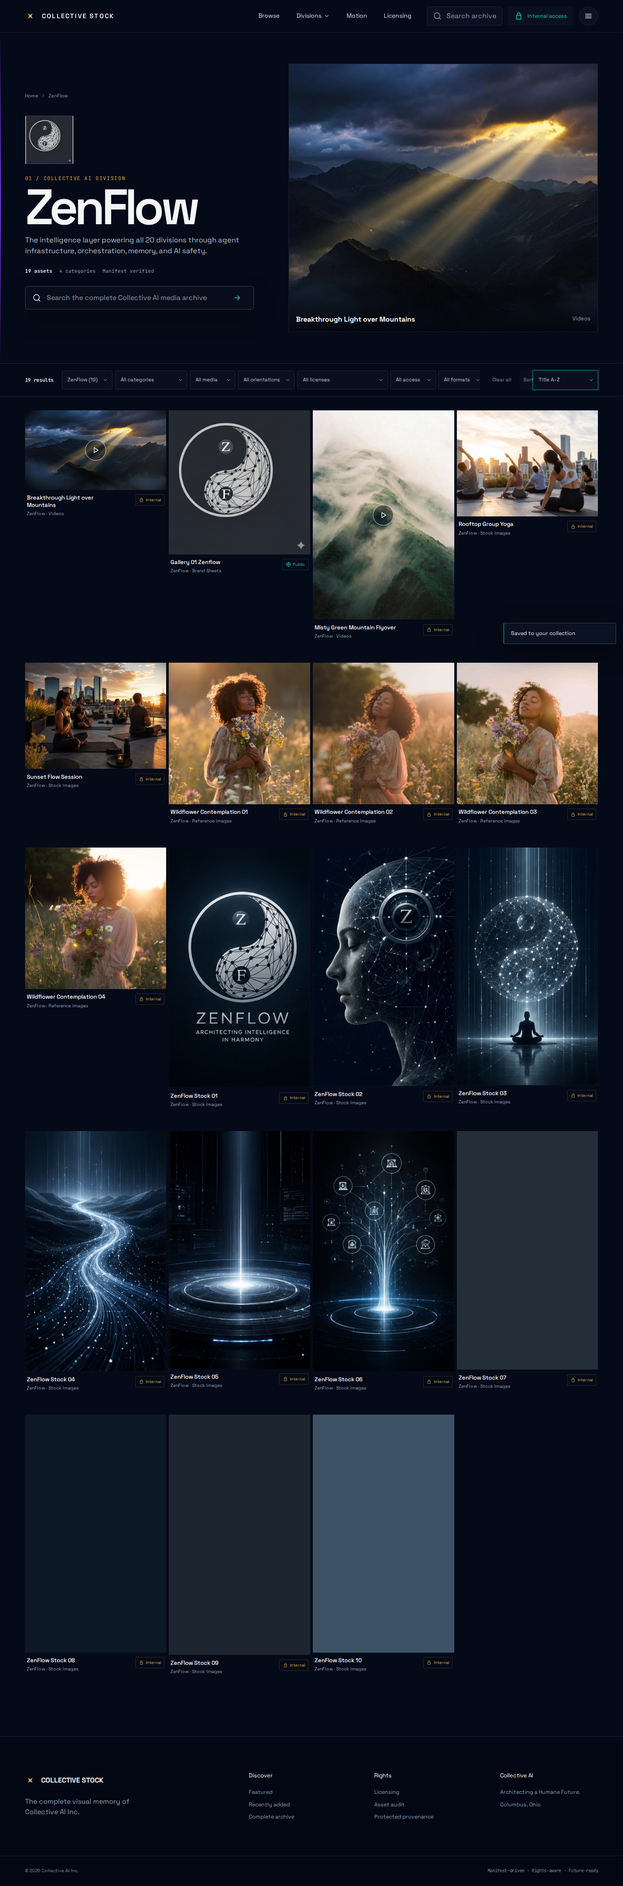
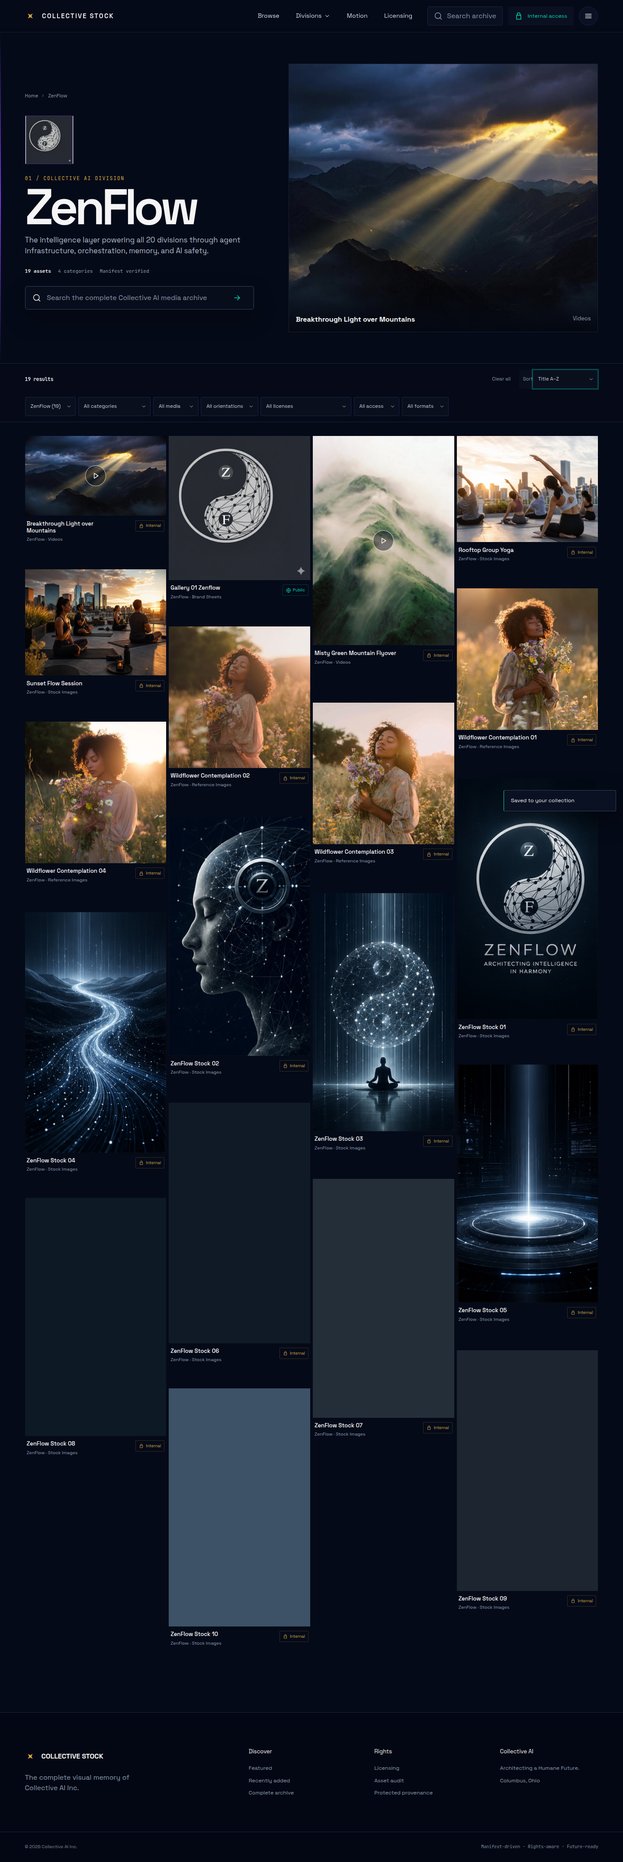
Pack media grids as masonry and fix layout defects across the app
Measured against the built site, the ratio-preserving grids were leaving
large holes and the facet rail was hiding controls. Each fix below was
verified in a real browser at 390/768/1024/1280/1440px.

Masonry packing (src/media/masonry-grid.js)
  A single tall portrait asset forced every short landscape asset sharing
  its row to reserve the same height, so the archive grid was mostly dead
  space. A controller now measures each item and assigns a row span,
  packing the columns tightly. The complete-archive page went from 48551px
  to 42440px tall with no loss of content. Row tracks apply only after the
  controller runs, so the plain grid remains the no-JS fallback, and the
  observer reacts to width alone because assigning spans is itself what
  changes the height.

Facet rail
  `.filter-controls` scrolled horizontally with its scrollbar hidden, so
  the last two facets ("All access", "All formats") were unreachable and
  collided with "Clear all". It now wraps, and gets a full-width row
  between 1281px and 1700px. Measured overflow at 1440px: 180px -> 0.

Motion showcase
  The rail hard-coded six columns for four videos, leaving a third of the
  row empty. Columns now follow the tile count, capped at six.

In-page anchors
  `#licensing` landed under the sticky header. Sections carry
  `scroll-margin-top`, and because the home bands use
  `content-visibility: auto` the fragment scroll is re-verified as the
[…]

diff --git a/src/styles/generated.css b/src/styles/generated.css
@@ -1,1 +1,1 @@
-*,:after,:before{--tw-border-spacing-x:0;--tw-border-spacing-y:0;--tw-translate-x:0;--tw-translate-y:0;--tw-rotate:0;--tw-skew-x:0;--tw-skew-y:0;--tw-scale-x:1;--tw-scale-y:1;--tw-pan-x: ;--tw-pan-y: ;--tw-pinch-zoom: ;--tw-scroll-snap-strictness:proximity;--tw-gradient-from-position: ;--tw-gradient-via-position: ;--tw-gradient-to-position: ;--tw-ordinal: ;--tw-slashed-zero: ;--tw-numeric-figure: ;--tw-numeric-spacing: ;--tw-numeric-fraction: ;--tw-ring-inset: ;--tw-ring-offset-width:0px;--tw-ring-offset-color:#fff;--tw-ring-color:rgba(59,130,246,.5);--tw-ring-offset-shadow:0 0 #0000;--tw-ring-shadow:0 0 #0000;--tw-shadow:0 0 #0000;--tw-shadow-colored:0 0 #0000;--tw-blur: ;--tw-brightness: ;--tw-contrast: ;--tw-grayscale: ;--tw-hue-rotate: ;--tw-invert: ;--tw-saturate: ;--tw-sepia: ;--tw-drop-shadow: ;--tw-backdrop-blur: ;--tw-backdrop-brightness: ;--tw-backdrop-contrast: ;--tw-backdrop-grayscale: ;--tw-backdrop-hue-rotate: ;--tw-backdrop-invert: ;--tw-backdrop-opacity: ;--tw-backdrop-saturate: ;--tw-backdrop-sepia: ;--tw-contain-size: ;--tw-contain-layout: ;--tw-contain-paint: ;--tw-contain-style: }::backdrop{--tw-border-spacing-x:0;--tw-border-spacing-y:0;--tw-translate-x:0;--tw-translate-y:0;--tw-rotate:0;--tw-skew-x:0;--tw-skew-y:0;--tw-scale-x:1;--tw-scale-y:1;--tw-pan-x: ;--tw-pan-y: ;--tw-pinch-zoom: ;--tw-scroll-snap-strictness:proximity;--tw-gradient-from-position: ;--tw-gradient-via-position: ;--tw-gradient-to-position: ;--tw-ordinal: ;--tw-slashed-zero: ;--tw-numeric-figure: ;--tw-numeric-spacing: ;--tw-numeric-fraction: ;--tw-ring-inset: ;--tw-ring-offset-width:0px;--tw-ring-offset-color:#fff;--tw-ring-color:rgba(59,130,246,.5);--tw-ring-offset-shadow:0 0 #0000;--tw-ring-shadow:0 0 #0000;--tw-shadow:0 0 #0000;--tw-shadow-colored:0 0 #0000;--tw-blur: ;--tw-brightness: ;--tw-contrast: ;--tw-grayscale: ;--tw-hue-rotate: ;--tw-invert: ;--tw-saturate: ;--tw-sepia: ;--tw-drop-shadow: ;--tw-backdrop-blur: ;--tw-backdrop-brightness: ;--tw-backdrop-contrast: ;--tw-backdrop-grayscale: ;--tw-backdrop-hue-rotate: ;--tw-backdrop-invert: ;--tw-backdrop-opacity: ;--tw-backdrop-saturate: ;--tw-backdrop-sepia: ;--tw-contain-size: ;--tw-contain-layout: ;--tw-contain-paint: ;--tw-contain-style: }/*! tailwindcss v3.4.19 | MIT License | https://tailwindcss.com*/*,:after,:before{box-sizing:border-box;border:0 solid #e5e7eb}:after,:before{--tw-content:""}:host,html{line-height:1.5;-webkit-text-size-adjust:100%;-moz-tab-size:4;-o-tab-size:4;tab-size:4;font-family:ui-sans-serif,system-ui,sans-serif,Apple Color Emoji,Segoe UI Emoji,Segoe UI Symbol,Noto Color Emoji;font-feature-settings:normal;font-variation-settings:normal;-webkit-tap-highlight-color:transparent}body{margin:0;line-height:inherit}hr{height:0;color:inherit;border-top-width:1px}abbr:where([title]){-webkit-text-decoration:underline dotted;text-decoration:underline dotted}h1,h2,h3,h4,h5,h6{font-size:inherit;font-weight:inherit}a{color:inherit;text-decoration:inherit}b,strong{font-weight:bolder}code,kbd,pre,samp{font-family:JetBrains Mono,ui-monospace,SFMono-Regular,monospace;font-feature-settings:normal;font-variation-settings:normal;font-size:1em}small{font-size:80%}sub,sup{font-size:75%;line-height:0;position:relative;vertical-align:baseline}sub{bottom:-.25em}sup{top:-.5em}table{text-indent:0;border-color:inherit;border-collapse:collapse}button,input,optgroup,select,textarea{font-family:inherit;font-feature-settings:inherit;font-variation-settings:inherit;font-size:100%;font-weight:inherit;line-height:inherit;letter-spacing:inherit;color:inherit;margin:0;padding:0}button,select{text-transform:none}button,input:where([type=button]),input:where([type=reset]),input:where([type=submit]){-webkit-appearance:button;background-color:transparent;background-image:none}:-moz-focusring{outline:auto}:-moz-ui-invalid{box-shadow:none}progress{vertical-align:baseline}::-webkit-inner-spin-button,::-webkit-outer-spin-button{height:auto}[type=search]{-webkit-appearance:textfield;outline-offset:-2px}::-webkit-search-decoration{-webkit-appearance:none}::-webkit-file-upload-button{-webkit-appearance:button;font:inherit}summary{display:list-item}blockquote,dd,dl,figure,h1,h2,h3,h4,h5,h6,hr,p,pre{margin:0}fieldset{margin:0}fieldset,legend{padding:0}menu,ol,ul{list-style:none;margin:0;padding:0}dialog{padding:0}textarea{resize:vertical}input::-moz-placeholder,textarea::-moz-placeholder{opacity:1;color:#9ca3af}input::placeholder,textarea::placeholder{opacity:1;color:#9ca3af}[role=button],button{cursor:pointer}:disabled{cursor:default}audio,canvas,embed,iframe,img,object,svg,video{display:block;vertical-align:middle}img,video{max-width:100%;height:auto}[hidden]:where(:not([hidden=until-found])){display:none}.sr-only{position:absolute;width:1px;height:1px;padding:0;margin:-1px;overflow:hidden;clip:rect(0,0,0,0);white-space:nowrap;border-width:0}.static{position:static}.table{display:table}.grid{display:grid}.hidden{display:none}.transform{transform:translate(var(--tw-translate-x),var(--tw-translate-y)) rotate(var(--tw-rotate)) skewX(var(--tw-skew-x)) skewY(var(--tw-skew-y)) scaleX(var(--tw-scale-x)) scaleY(var(--tw-scale-y))}.filter{filter:var(--tw-blur) var(--tw-brightness) var(--tw-contrast) var(--tw-grayscale) var(--tw-hue-rotate) var(--tw-invert) var(--tw-saturate) var(--tw-sepia) var(--tw-drop-shadow)}
+*,:after,:before{--tw-border-spacing-x:0;--tw-border-spacing-y:0;--tw-translate-x:0;--tw-translate-y:0;--tw-rotate:0;--tw-skew-x:0;--tw-skew-y:0;--tw-scale-x:1;--tw-scale-y:1;--tw-pan-x: ;--tw-pan-y: ;--tw-pinch-zoom: ;--tw-scroll-snap-strictness:proximity;--tw-gradient-from-position: ;--tw-gradient-via-position: ;--tw-gradient-to-position: ;--tw-ordinal: ;--tw-slashed-zero: ;--tw-numeric-figure: ;--tw-numeric-spacing: ;--tw-numeric-fraction: ;--tw-ring-inset: ;--tw-ring-offset-width:0px;--tw-ring-offset-color:#fff;--tw-ring-color:rgba(59,130,246,.5);--tw-ring-offset-shadow:0 0 #0000;--tw-ring-shadow:0 0 #0000;--tw-shadow:0 0 #0000;--tw-shadow-colored:0 0 #0000;--tw-blur: ;--tw-brightness: ;--tw-contrast: ;--tw-grayscale: ;--tw-hue-rotate: ;--tw-invert: ;--tw-saturate: ;--tw-sepia: ;--tw-drop-shadow: ;--tw-backdrop-blur: ;--tw-backdrop-brightness: ;--tw-backdrop-contrast: ;--tw-backdrop-grayscale: ;--tw-backdrop-hue-rotate: ;--tw-backdrop-invert: ;--tw-backdrop-opacity: ;--tw-backdrop-saturate: ;--tw-backdrop-sepia: ;--tw-contain-size: ;--tw-contain-layout: ;--tw-contain-paint: ;--tw-contain-style: }::backdrop{--tw-border-spacing-x:0;--tw-border-spacing-y:0;--tw-translate-x:0;--tw-translate-y:0;--tw-rotate:0;--tw-skew-x:0;--tw-skew-y:0;--tw-scale-x:1;--tw-scale-y:1;--tw-pan-x: ;--tw-pan-y: ;--tw-pinch-zoom: ;--tw-scroll-snap-strictness:proximity;--tw-gradient-from-position: ;--tw-gradient-via-position: ;--tw-gradient-to-position: ;--tw-ordinal: ;--tw-slashed-zero: ;--tw-numeric-figure: ;--tw-numeric-spacing: ;--tw-numeric-fraction: ;--tw-ring-inset: ;--tw-ring-offset-width:0px;--tw-ring-offset-color:#fff;--tw-ring-color:rgba(59,130,246,.5);--tw-ring-offset-shadow:0 0 #0000;--tw-ring-shadow:0 0 #0000;--tw-shadow:0 0 #0000;--tw-shadow-colored:0 0 #0000;--tw-blur: ;--tw-brightness: ;--tw-contrast: ;--tw-grayscale: ;--tw-hue-rotate: ;--tw-invert: ;--tw-saturate: ;--tw-sepia: ;--tw-drop-shadow: ;--tw-backdrop-blur: ;--tw-backdrop-brightness: ;--tw-backdrop-contrast: ;--tw-backdrop-grayscale: ;--tw-backdrop-hue-rotate: ;--tw-backdrop-invert: ;--tw-backdrop-opacity: ;--tw-backdrop-saturate: ;--tw-backdrop-sepia: ;--tw-contain-size: ;--tw-contain-layout: ;--tw-contain-paint: ;--tw-contain-style: }/*! tailwindcss v3.4.19 | MIT License | https://tailwindcss.com*/*,:after,:before{box-sizing:border-box;border:0 solid #e5e7eb}:after,:before{--tw-content:""}:host,html{line-height:1.5;-webkit-text-size-adjust:100%;-moz-tab-size:4;-o-tab-size:4;tab-size:4;font-family:ui-sans-serif,system-ui,sans-serif,Apple Color Emoji,Segoe UI Emoji,Segoe UI Symbol,Noto Color Emoji;font-feature-settings:normal;font-variation-settings:normal;-webkit-tap-highlight-color:transparent}body{margin:0;line-height:inherit}hr{height:0;color:inherit;border-top-width:1px}abbr:where([title]){-webkit-text-decoration:underline dotted;text-decoration:underline dotted}h1,h2,h3,h4,h5,h6{font-size:inherit;font-weight:inherit}a{color:inherit;text-decoration:inherit}b,strong{font-weight:bolder}code,kbd,pre,samp{font-family:JetBrains Mono,ui-monospace,SFMono-Regular,monospace;font-feature-settings:normal;font-variation-settings:normal;font-size:1em}small{font-size:80%}sub,sup{font-size:75%;line-height:0;position:relative;vertical-align:baseline}sub{bottom:-.25em}sup{top:-.5em}table{text-indent:0;border-color:inherit;border-collapse:collapse}button,input,optgroup,select,textarea{font-family:inherit;font-feature-settings:inherit;font-variation-settings:inherit;font-size:100%;font-weight:inherit;line-height:inherit;letter-spacing:inherit;color:inherit;margin:0;padding:0}button,select{text-transform:none}button,input:where([type=button]),input:where([type=reset]),input:where([type=submit]){-webkit-appearance:button;background-color:transparent;background-image:none}:-moz-focusring{outline:auto}:-moz-ui-invalid{box-shadow:none}progress{vertical-align:baseline}::-webkit-inner-spin-button,::-webkit-outer-spin-button{height:auto}[type=search]{-webkit-appearance:textfield;outline-offset:-2px}::-webkit-search-decoration{-webkit-appearance:none}::-webkit-file-upload-button{-webkit-appearance:button;font:inherit}summary{display:list-item}blockquote,dd,dl,figure,h1,h2,h3,h4,h5,h6,hr,p,pre{margin:0}fieldset{margin:0}fieldset,legend{padding:0}menu,ol,ul{list-style:none;margin:0;padding:0}dialog{padding:0}textarea{resize:vertical}input::-moz-placeholder,textarea::-moz-placeholder{opacity:1;color:#9ca3af}input::placeholder,textarea::placeholder{opacity:1;color:#9ca3af}[role=button],button{cursor:pointer}:disabled{cursor:default}audio,canvas,embed,iframe,img,object,svg,video{display:block;vertical-align:middle}img,video{max-width:100%;height:auto}[hidden]:where(:not([hidden=until-found])){display:none}.sr-only{position:absolute;width:1px;height:1px;padding:0;margin:-1px;overflow:hidden;clip:rect(0,0,0,0);white-space:nowrap;border-width:0}.static{position:static}.sticky{position:sticky}.block{display:block}.table{display:table}.\!grid{display:grid!important}.grid{display:grid}.hidden{display:none}.transform{transform:translate(var(--tw-translate-x),var(--tw-translate-y)) rotate(var(--tw-rotate)) skewX(var(--tw-skew-x)) skewY(var(--tw-skew-y)) scaleX(var(--tw-scale-x)) scaleY(var(--tw-scale-y))}.filter{filter:var(--tw-blur) var(--tw-brightness) var(--tw-contrast) var(--tw-grayscale) var(--tw-hue-rotate) var(--tw-invert) var(--tw-saturate) var(--tw-sepia) var(--tw-drop-shadow)}

diff --git a/src/pages/home-page.js b/src/pages/home-page.js
@@ -2,6 +2,7 @@ import { el, icon, diamondStar, formatCount } from "../utils/dom.js";
 import { GlobalSearch } from "../components/global-search.js";
 import { MediaCard, optimizedPath } from "../components/media-card.js";
 import { LicenseBadge } from "../components/license-badge.js";
+import { enhanceMasonry } from "../media/masonry-grid.js";
 import { collectionRoute, divisionRoute } from "../utils/routes.js";
 
 const COLLECTIONS = [
@@ -44,7 +45,10 @@ function collectionRail(assets) {
 function motionRail(assets, onPreview) {
   const motion = assets.filter((asset) => asset.mediaType === "video" || asset.categorySlug === "motion-references").slice(0, 6);
   const fallback = assets.slice(0, 6);
-  return el("div", { class: "motion-rail" }, (motion.length ? motion : fallback).map((asset) => el("button", { class: `motion-tile ${asset.mediaType === "video" ? "is-video" : "is-static"}`, type: "button", "aria-label": `Preview ${asset.mediaType === "video" ? "motion" : "static motion reference"}: ${asset.title}`, onClick: () => onPreview(asset) }, [
+  const tiles = motion.length ? motion : fallback;
+  // The rail draws its column count from the tiles it actually has, so a short
+  // archive fills the row instead of leaving empty tracks on the right.
+  return el("div", { class: "motion-rail", style: `--rail-columns:${Math.max(tiles.length, 1)}` }, tiles.map((asset) => el("button", { class: `motion-tile ${asset.mediaType === "video" ? "is-video" : "is-static"}`, type: "button", "aria-label": `Preview ${asset.mediaType === "video" ? "motion" : "static motion reference"}: ${asset.title}`, onClick: () => onPreview(asset) }, [
     el("img", { src: asset.posterPath || optimizedPath(asset), alt: asset.altText || asset.title, width: asset.width, height: asset.height, loading: "lazy" }),
     el("span", { class: "motion-tile__play" }, icon(asset.mediaType === "video" ? "play" : "expand")),
     el("span", { class: "motion-tile__meta" }, [el("strong", { text: asset.title }), el("small", { text: asset.mediaType === "video" ? "Motion preview" : "Static motion reference" })])
@@ -58,6 +62,8 @@ export function HomePage({ assets, divisions, index, audit, onSearch, onPreview,
   const search = new GlobalSearch({ index, assets, divisions });
   search.addEventListener("search", (event) => onSearch(event.detail.query));
   const recent = [...assets].sort((a, b) => String(b.ingestedAt || b.generationDate || "").localeCompare(String(a.ingestedAt || a.generationDate || ""))).slice(0, 8);
+  const recentGrid = el("div", { class: "recent-grid" }, recent.map((asset) => MediaCard(asset, { favorites, lazyController, onPreview, toast })));
+  enhanceMasonry(recentGrid);
   return el("main", { id: "main-content" }, [
     el("section", { class: "home-hero" }, [
       el("div", { class: "hero-copy" }, [
@@ -78,7 +84,7 @@ export function HomePage({ assets, divisions, index, audit, onSearch, onPreview,
     ]),
     el("section", { class: "home-band recently-added" }, [
       el("div", { class: "section-heading" }, [el("div", {}, [el("p", { class: "section-label", text: "Archive pulse" }), el("h2", { text: "Recently added" })]), el("a", { href: collectionRoute("recently-added") }, ["View all recent media", icon("arrow")])]),
-      el("div", { class: "recent-grid" }, recent.map((asset) => MediaCard(asset, { favorites, lazyController, onPreview, toast })))
+      recentGrid
     ]),
     el("section", { class: "home-band motion-showcase" }, [
       el("div", { class: "section-heading" }, [el("div", {}, [el("p", { class: "section-label", text: "Built for motion" }), el("h2", { text: "Motion showcase" })]), el("p", { text: "Poster-first previews, viewport-aware playback, static fallbacks, and reduced-motion support are built into the media layer." })]),
@@ -87,11 +93,11 @@ export function HomePage({ assets, divisions, index, audit, onSearch, onPreview,
     el("section", { class: "home-band licensing-section", id: "licensing" }, [
       el("div", { class: "licensing-intro" }, [el("p", { class: "section-label", text: "Rights without ambiguity" }), el("h2", { text: "Licensing, made explicit" }), el("p", { text: "Every asset carries a readable rights profile, visibility state, provenance trail, and delivery policy." }), el("a", { class: "text-link", href: collectionRoute("public-download") }, ["Explore public assets", icon("arrow")])]),
       el("div", { class: "license-principles" }, [
-        ["Clear rights", "Permitted and restricted uses are stated on every detail page."],
-        ["Protected delivery", "Private originals route through authenticated, signed delivery architecture."],
-        ["Attribution clarity", "Credits and editorial terms live beside the download controls."],
-        ["Future ready", "Rights-managed, royalty-free, and custom licenses share one model."]
-      ].map(([title, description], i) => el("article", {}, [el("span", { class: "license-principle__icon" }, [i === 1 ? icon("lock") : i === 2 ? icon("globe") : icon("check")]), el("h3", { text: title }), el("p", { text: description })])))
+        ["Clear rights", "Permitted and restricted uses are stated on every detail page.", "check"],
+        ["Protected delivery", "Private originals route through authenticated, signed delivery architecture.", "lock"],
+        ["Attribution clarity", "Credits and editorial terms live beside the download controls.", "globe"],
+        ["Future ready", "Rights-managed, royalty-free, and custom licenses share one model.", "layers"]
+      ].map(([title, description, iconName]) => el("article", {}, [el("span", { class: "license-principle__icon" }, [icon(iconName)]), el("h3", { text: title }), el("p", { text: description })])))
     ]),
     audit?.missingOrInaccessible > 0 ? el("aside", { class: "audit-notice" }, [icon("lock"), el("div", {}, [el("strong", { text: "Archive audit in progress" }), el("p", { text: `${formatCount(audit.missingOrInaccessible)} expected historical outputs are documented as inaccessible in this environment. No substitutes or silent omissions were used.` })]), el("a", { href: "/audit.html", text: "Read the audit" })]) : null
   ]);

diff --git a/src/styles/app.css b/src/styles/app.css
@@ -18,6 +18,8 @@
 
 * { box-sizing: border-box; }
 html { scroll-behavior: smooth; background: var(--navy); }
+/* In-page anchors clear the sticky header instead of landing beneath it. */
+:target, [id] { scroll-margin-top: calc(var(--header-height) + 1.5rem); }
 body { margin: 0; min-width: 320px; min-height: 100vh; background: var(--navy); color: var(--ink); font-family: "Space Grotesk", Inter, system-ui, sans-serif; font-size: 16px; line-height: 1.5; text-rendering: optimizeLegibility; }
 body::before { content: ""; position: fixed; inset: 0; z-index: -1; pointer-events: none; background: radial-gradient(circle at 78% -10%, rgba(0,217,181,.055), transparent 30%), linear-gradient(90deg, transparent calc(50% - .5px), rgba(26,37,64,.11) 50%, transparent calc(50% + .5px)); }
 body.has-dialog { overflow: hidden; }
@@ -135,9 +137,9 @@ button:focus-visible, a:focus-visible, input:focus-visible, select:focus-visible
 .collection-tile__content strong { font-size: 1.15rem; font-weight: 500; }
 .collection-tile__content small { color: #bcc5d2; }
 .collection-tile__content .icon { grid-column: 2; grid-row: 1 / 3; align-self: center; color: var(--teal); }
-.recent-grid { display: grid; grid-template-columns: repeat(4,minmax(0,1fr)); gap: 2rem 8px; }
+.recent-grid { display: grid; grid-template-columns: repeat(4,minmax(0,1fr)); gap: 2rem 8px; align-items: start; }
 .motion-showcase { background: linear-gradient(180deg,transparent,rgba(13,19,38,.35),transparent); }
-.motion-rail { display: grid; grid-template-columns: repeat(6,minmax(0,1fr)); gap: 5px; }
+.motion-rail { display: grid; grid-template-columns: repeat(min(var(--rail-columns,6),6),minmax(0,1fr)); gap: 5px; }
 .motion-tile { min-height: 265px; position: relative; overflow: hidden; padding: 0; border: 0; background: var(--elevated); cursor: pointer; text-align: left; }
 .motion-tile img { width: 100%; height: 100%; object-fit: cover; filter: brightness(.72); transition: .4s; }
 .motion-tile:hover img { filter: brightness(.88); transform: scale(1.025); }
@@ -180,8 +182,9 @@ button:focus-visible, a:focus-visible, input:focus-visible, select:focus-visible
 .filter-bar__summary { display: flex; align-items: center; gap: 1rem; white-space: nowrap; }
 .filter-bar__summary strong { font-size: .72rem; }
 .filter-trigger { display: none; }
-.filter-controls { display: flex; gap: .35rem; overflow-x: auto; scrollbar-width: none; }
-.filter-controls::-webkit-scrollbar { display: none; }
+/* Filters wrap rather than scroll out of sight: the rail is scrollbar-less, so
+   an overflowing control was unreachable and silently hid whole facets. */
+.filter-controls { display: flex; flex-wrap: wrap; gap: .35rem; min-width: 0; }
 .filter-select, .sort-select { min-height: 44px; position: relative; display: inline-flex; align-items: center; border: 1px solid var(--border); border-radius: 3px; color: #c6cfdb; background: var(--obsidian); }
 .filter-select select, .sort-select select { min-height: 42px; padding: 0 2.1rem 0 .75rem; border: 0; appearance: none; color: inherit; background: transparent; font-size: .73rem; cursor: pointer; }
 .filter-select .icon, .sort-select .icon { position: absolute; right: .55rem; width: .8rem; transform: rotate(90deg); pointer-events: none; }
@@ -193,6 +196,10 @@ button:focus-visible, a:focus-visible, input:focus-visible, select:focus-visible
 
 .media-grid { display: grid; grid-template-columns: repeat(4,minmax(0,1fr)); gap: 2.5rem 6px; align-items: start; }
 .media-grid.is-empty { display: block; }
+/* Masonry packing. Row tracks only take effect once the controller has
+   measured real spans, so the plain ratio grid stays the no-JS fallback. */
+.is-masonry { grid-auto-rows: 4px; }
+.is-masonry > * { grid-row-end: span var(--masonry-span,1); }
 .media-card { position: relative; min-width: 0; }
 .media-card__media { position: relative; overflow: hidden; background: var(--placeholder); }
 .media-card__media::before { content: ""; position: absolute; inset: 0; z-index: 1; background: linear-gradient(110deg,transparent 25%,rgba(255,255,255,.08) 42%,transparent 58%); background-size: 200% 100%; animation: skeleton 1.6s linear infinite; }
@@ -335,6 +342,14 @@ body.has-mobile-nav { overflow: hidden; }
   .media-grid { grid-template-columns: repeat(3,1fr); }
   .motion-rail { grid-template-columns: repeat(3,1fr); }
   .motion-tile { min-height: 240px; }
+  .filter-bar { grid-template-columns: 1fr auto; }
+  .filter-controls { grid-column: 1 / -1; grid-row: 2; }
+}
+
+/* Above the 1280px breakpoint the facet rail shares a row with the result
+   count and sort control, which leaves it too narrow for all seven filters.
+   Give it a full-width row until there is genuinely space for one line. */
+@media (min-width: 1281px) and (max-width: 1700px) {
   .filter-bar { grid-template-columns: 1fr auto; }
   .filter-controls { grid-column: 1 / -1; grid-row: 2; }
 }

diff --git a/src/media/masonry-grid.js b/src/media/masonry-grid.js
@@ -1,0 +1,92 @@
+const ROW_UNIT = 4;
+
+const parseGap = (value) => {
+  const parsed = Number.parseFloat(value);
+  return Number.isFinite(parsed) ? parsed : 0;
+};
+
+/**
+ * Packs a ratio-preserving media grid into tight masonry columns.
+ *
+ * The grid keeps its ordinary column tracks and reading order; only the row
+ * span of each item is computed, so a tall portrait asset no longer forces
+ * every short landscape asset in the same row to reserve its height. Items
+ * measure their own natural height, which is stable before images load
+ * because each card carries an `aspect-ratio` derived from the manifest.
+ *
+ * Layout stays valid without JavaScript: the masonry row tracks only apply
+ * once `is-masonry` is set, so the untouched grid remains the fallback.
+ */
+export class MasonryGrid {
+  #grid;
+  #frame = 0;
+  #width = -1;
+  #observer;
+
+  constructor(grid) {
+    this.#grid = grid;
+    // Only a width change can alter the packing. Reacting to height would feed
+    // back into itself, because assigning spans is what changes the height.
+    this.#observer = new ResizeObserver((entries) => {
+      const width = Math.round(entries[0]?.contentRect.width ?? 0);
+      if (width === this.#width) return;
+      this.#width = width;
+      this.schedule();
+    });
+    this.#observer.observe(grid);
+    document.fonts?.ready.then(() => this.schedule()).catch(() => {});
+  }
+
+  schedule() {
+    if (this.#frame) return;
+    this.#frame = requestAnimationFrame(() => {
+      this.#frame = 0;
+      this.layout();
+    });
+  }
+
+  layout() {
+    const grid = this.#grid;
+    const items = [...grid.children];
+    if (!items.length || grid.classList.contains("is-empty")) {
+      grid.classList.remove("is-masonry");
+      return;
+    }
+
+    const styles = getComputedStyle(grid);
+    const columns = styles.gridTemplateColumns.split(" ").filter(Boolean).length;
+    const rowGap = parseGap(styles.rowGap);
+
+    // A single column is already tightly packed; masonry spans would only add
+    // rounding error, so hand the grid back to normal flow.
+    if (columns < 2) {
+      grid.classList.remove("is-masonry");
+      items.forEach((item) => item.style.removeProperty("--masonry-span"));
+      return;
+    }
+
+    // Measure every item before writing spans back, so the reads are not
+    // interleaved with writes that would force repeated synchronous layout.
+    // The grid aligns items to `start`, so each height stays the item's own
+    // content height rather than the span the previous pass assigned it.
+    grid.classList.add("is-masonry");
+    const spans = items.map((item) => {
+      const height = item.getBoundingClientRect().height;
+      return Math.max(1, Math.ceil((height + rowGap) / (ROW_UNIT + rowGap)));
+    });
+    items.forEach((item, index) => item.style.setProperty("--masonry-span", String(spans[index])));
+  }
+
+  disconnect() {
+    this.#observer.disconnect();
+    if (this.#frame) cancelAnimationFrame(this.#frame);
+    this.#frame = 0;
+  }
+}
+
+export function enhanceMasonry(grid) {
+  if (!grid || typeof ResizeObserver === "undefined") return null;
+  const masonry = new MasonryGrid(grid);
+  masonry.layout();
+  return masonry;
+}

diff --git a/src/app.js b/src/app.js
@@ -33,6 +33,47 @@ function searchNavigate(query) {
   window.location.assign(collectionRoute("complete-archive", query));
 }
 
+// Tracked from module evaluation rather than after boot: the manifest fetch
+// makes boot finish at an unpredictable time, and a reader who starts scrolling
+// while it is still in flight must never be pulled back to the hash target.
+let readerMovedView = false;
+["wheel", "touchstart", "keydown", "pointerdown"].forEach((name) => {
+  window.addEventListener(name, () => { readerMovedView = true; }, { passive: true, once: true });
+});
+
+/**
+ * Re-aligns a `#hash` landing after the page renders.
+ *
+ * The browser resolves the hash against the loading shell, and the home bands
+ * use `content-visibility: auto`, so their estimated heights keep moving the
+ * target while real content is laid out. Re-aligning as the page settles
+ * honours each section's `scroll-margin-top` and clears the sticky header.
+ * Any deliberate scroll from the reader cancels the remaining corrections.
+ */
+function restoreHashTarget() {
+  const id = decodeURIComponent(window.location.hash.slice(1));
+  if (!id) return;
+  const target = document.getElementById(id);
+  if (!target) return;
+
+  // Re-align until the target actually sits at its scroll-margin offset. A
+  // single pass is not enough: early on the document is still shorter than its
+  // final height, so the scroll is clamped and silently does nothing, and the
+  // browser runs its own fragment scroll later against a stale layout. Keep
+  // verifying for the whole budget rather than stopping at the first success.
+  const deadline = Date.now() + 2000;
+  const settle = () => {
+    if (readerMovedView) return;
+    const expected = Number.parseFloat(getComputedStyle(target).scrollMarginTop) || 0;
+    if (Math.abs(target.getBoundingClientRect().top - expected) > 2) {
+      target.scrollIntoView({ block: "start", behavior: "auto" });
+    }
+    if (Date.now() > deadline) return;
+    setTimeout(settle, 100);
+  };
+  requestAnimationFrame(settle);
+}
+
 async function boot() {
   if (!app.children.length) app.replaceChildren(loadingScreen());
   const data = await new AssetManifestLoader().load();
@@ -72,6 +113,7 @@ async function boot() {
     app.append(Footer());
   } else app.replaceChildren(header.root, content, Footer());
   document.documentElement.classList.add("is-ready");
+  restoreHashTarget();
   window.addEventListener("beforeunload", () => lazyController.disconnect(), { once: true });
 }
 

diff --git a/scripts/verify-dist.js b/scripts/verify-dist.js
@@ -1,5 +1,6 @@
 import fs from "node:fs/promises";
 import path from "node:path";
+import crypto from "node:crypto";
 import { ROOT, readJson } from "./lib/asset-utils.js";
 
 const required = ["index.html", "division.html", "asset.html", "collections.html", "audit.html", "divisions/zenflow.html", "collections/complete-archive.html", "assets/manifests/asset-manifest.json", "assets/manifests/divisions.json", "assets/manifests/audit-summary.json"];
@@ -23,4 +24,26 @@ for (const asset of publicManifest.assets) {
   }
 }
 if (missing.length) throw new Error(`Distribution is incomplete: ${missing.join(", ")}`);
-console.log(`Distribution verified with ${required.length} critical entry points, ${publicManifest.assets.length} public asset records, and every public rendition/video preview.`);
+
+// The production CSP allow-lists inline scripts by hash. Editing an inline
+// block without updating vercel.json would ship a page whose own structured
+// data the browser refuses to parse, so the mismatch fails the build here.
+const vercelConfig = await readJson(path.join(ROOT, "vercel.json"), { headers: [] });
+const policy = vercelConfig.headers
+  ?.flatMap((entry) => entry.headers || [])
+  .find((header) => header.key?.toLowerCase() === "content-security-policy")?.value || "";
+const allowedHashes = new Set([...policy.matchAll(/'(sha256-[A-Za-z0-9+/=]+)'/g)].map((match) => match[1]));
+const inlineScript = /<script(?![^>]*\ssrc=)[^>]*>([\s\S]*?)<\/script>/g;
+const unhashed = [];
+for (const file of required.filter((entry) => entry.endsWith(".html"))) {
+  const html = await fs.readFile(path.join(ROOT, "dist", file), "utf8");
+  for (const [, body] of html.matchAll(inlineScript)) {
+    const hash = `sha256-${crypto.createHash("sha256").update(body, "utf8").digest("base64")}`;
+    if (!allowedHashes.has(hash)) unhashed.push(`${file}: ${hash}`);
+  }
+}
+if (unhashed.length) {
+  throw new Error(`Inline scripts are not allow-listed by the Content-Security-Policy in vercel.json:\n  ${unhashed.join("\n  ")}`);
+}
+
+console.log(`Distribution verified with ${required.length} critical entry points, ${publicManifest.assets.length} public asset records, every public rendition/video preview, and ${allowedHashes.size} CSP-hashed inline script(s).`);

diff --git a/tests/e2e/collective-stock.spec.js b/tests/e2e/collective-stock.spec.js
@@ -10,10 +10,18 @@ async function warmLazyMedia(page) {
   await page.evaluate(async () => {
     document.documentElement.classList.add("visual-regression");
     for (const media of document.querySelectorAll('img[loading="lazy"], video')) {
-      media.scrollIntoView({ block: "center" });
+      media.scrollIntoView({ block: "center", inline: "center" });
       await new Promise((resolve) => setTimeout(resolve, 80));
     }
-    await Promise.all([...document.images].map((image) => image.decode?.().catch(() => {})));
+    // Lazy images parked inside a horizontally scrolling rail can stay outside
+    // the viewport on narrow layouts, so their decode never settles. Bound the
+    // wait per image; screenshots then capture whatever genuinely rendered
+    // rather than hanging the whole test on one deferred fetch.
+    const decoded = (image) => Promise.race([
+      image.decode?.().catch(() => {}) ?? Promise.resolve(),
+      new Promise((resolve) => setTimeout(resolve, 3000))
+    ]);
+    await Promise.all([...document.images].map(decoded));
     window.scrollTo(0, 0);
     await new Promise((resolve) => setTimeout(resolve, 250));
   });

diff --git a/src/components/media-grid.js b/src/components/media-grid.js
@@ -1,16 +1,19 @@
 import { el, clear } from "../utils/dom.js";
 import { MediaCard } from "./media-card.js";
+import { enhanceMasonry } from "../media/masonry-grid.js";
 
 export class MediaGrid {
   constructor(options = {}) {
     this.options = options;
     this.root = el("div", { class: "media-grid", role: "list", "aria-label": "Media results" });
+    this.masonry = enhanceMasonry(this.root);
   }
 
   render(assets = []) {
     clear(this.root);
     if (!assets.length) {
       this.root.classList.add("is-empty");
+      this.root.classList.remove("is-masonry");
       this.root.append(el("section", { class: "empty-state" }, [
         el("span", { class: "empty-state__mark", "aria-hidden": "true", text: "◇" }),
         el("h2", { text: "No media matches this view" }),
@@ -24,6 +27,7 @@ export class MediaGrid {
       const item = el("div", { role: "listitem" }, MediaCard(asset, this.options));
       this.root.append(item);
     });
+    this.masonry?.schedule();
     return this.root;
   }
 }

diff --git a/src/utils/dom.js b/src/utils/dom.js
@@ -42,6 +42,7 @@ export function icon(name, label = "") {
     filter: ["M4 5h16", "M7 12h10", "M10 19h4"],
     expand: ["M8 3H3v5", "M16 3h5v5", "M8 21H3v-5", "M16 21h5v-5"],
     check: ["m5 12 4 4L19 6"],
+    layers: ["m12 3 9 5-9 5-9-5 9-5Z", "m3 13 9 5 9-5", "m3 17 9 5 9-5"],
     alert: ["M12 3 2.8 20h18.4L12 3Z", "M12 9v5", "M12 17h.01"],
     grid: ["M4 4h6v6H4z", "M14 4h6v6h-6z", "M4 14h6v6H4z", "M14 14h6v6h-6z"]
   };
